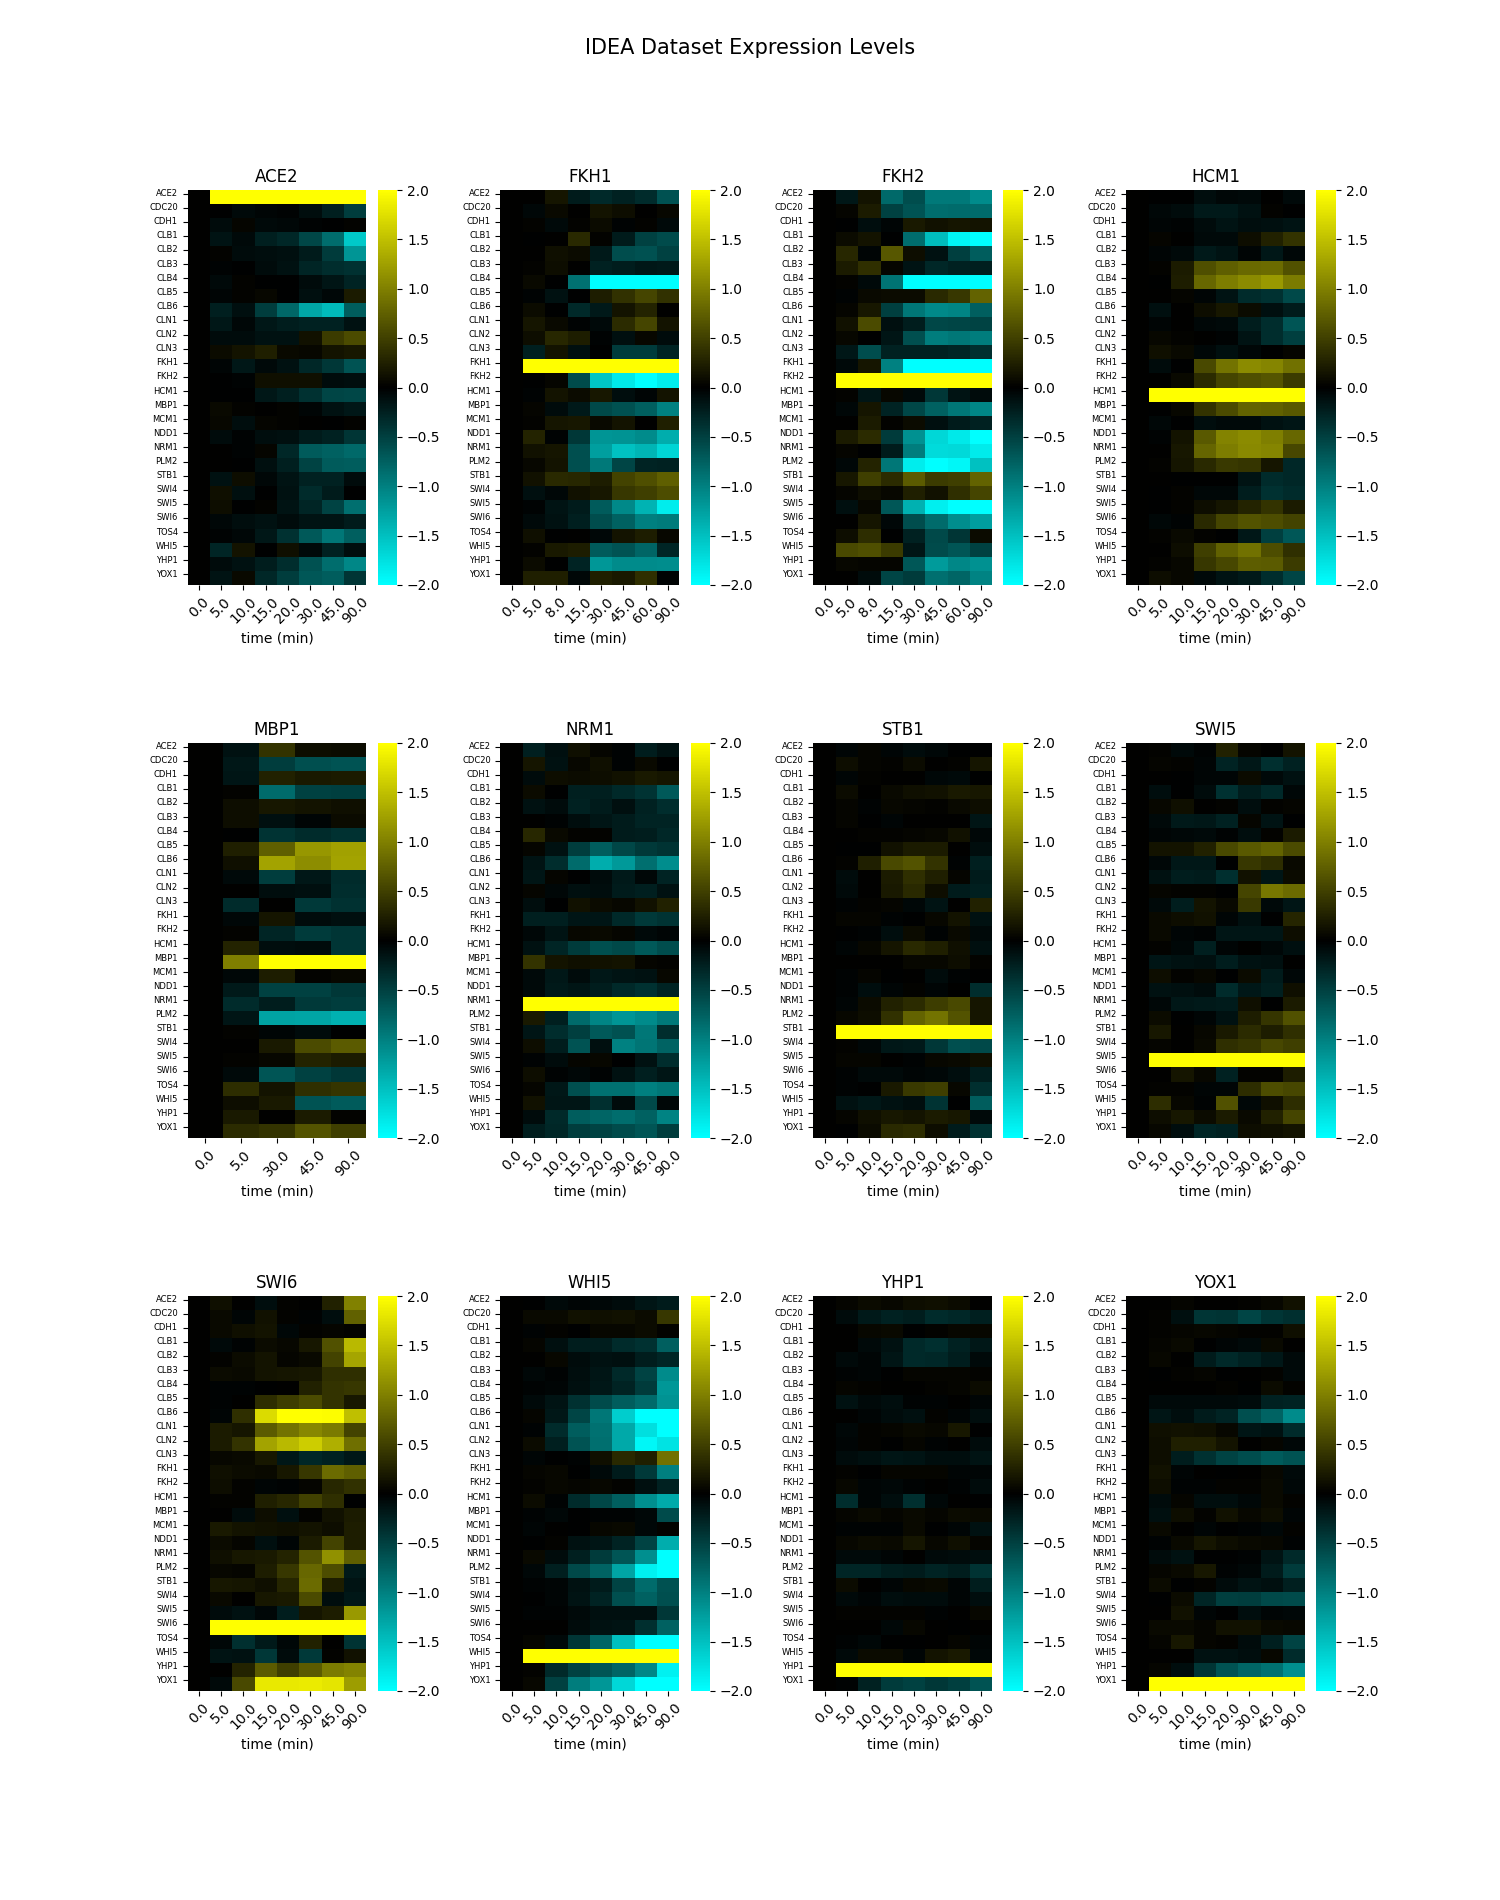
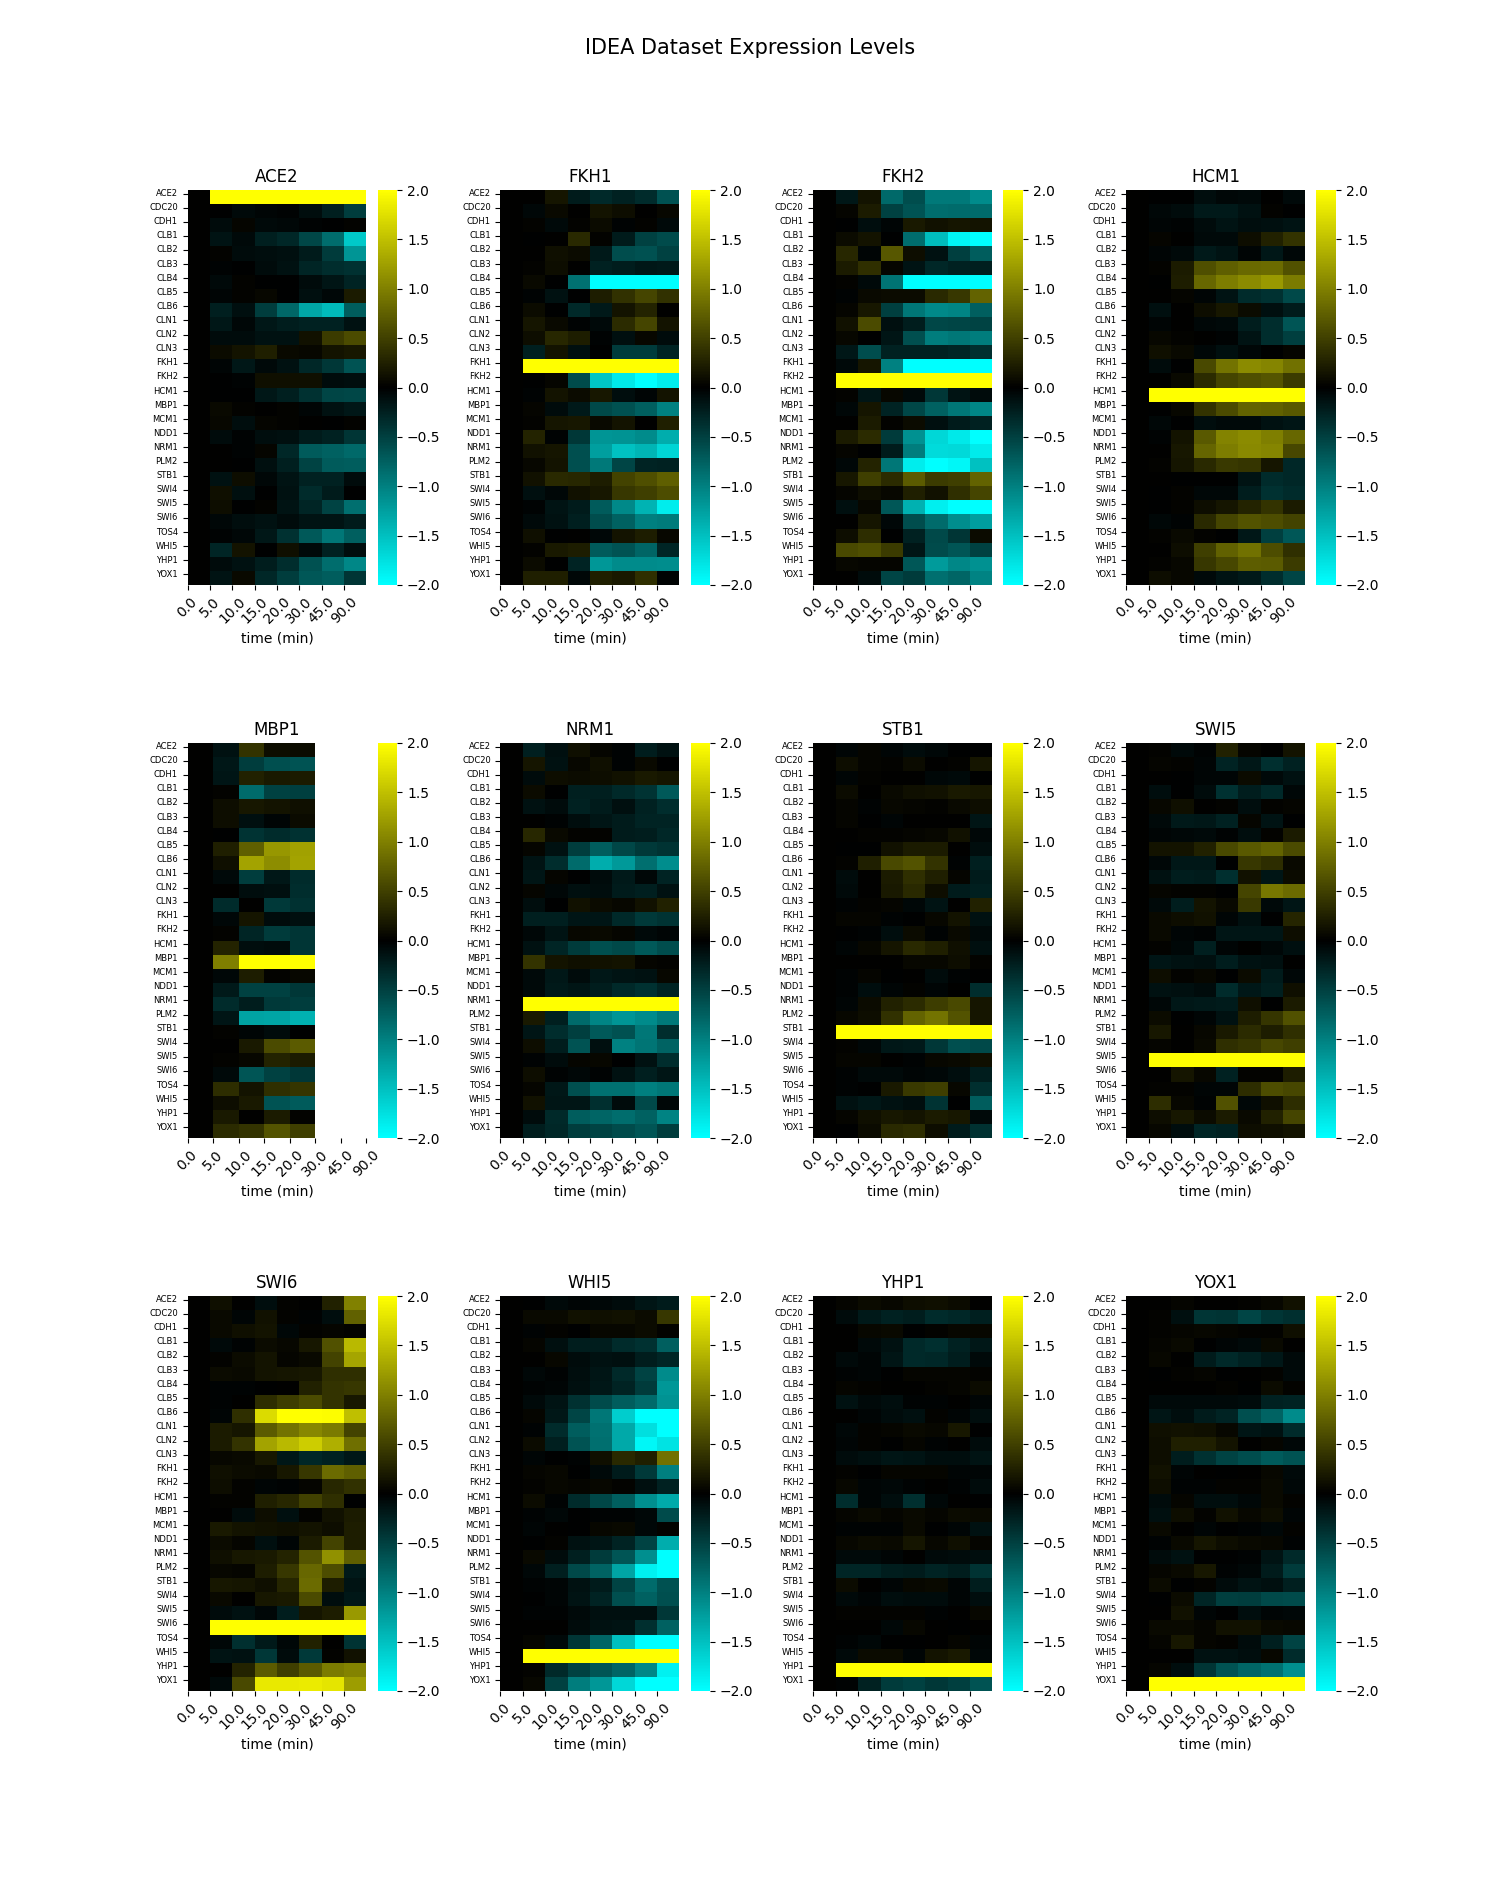
finished adjusting heat maps

diff --git a/grn_finder.py b/grn_finder.py
@@ -230,10 +230,10 @@ def create_heat_maps(df):
         ax.set_xlabel('time (min)')
         ax.set_ylabel('')  
 
-        # Get GeneNames for manual tick placement
-        gene_names = heatmap_data.index.to_numpy()
-
         # set tick positions and labels
+        times = np.array([0.0, 5.0, 10.0, 15.0, 20.0, 30.0, 45.0, 90.0])
+        gene_names = heatmap_data.index.to_numpy()
+        ax.set_xticks(np.arange(len(times)), labels=times)
         ax.set_yticks(np.arange(len(gene_names)) + 0.25, labels=gene_names, fontsize=6)
         plt.xticks(rotation=45)  
 
